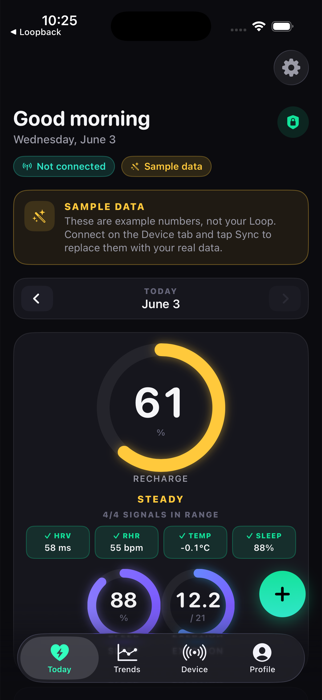
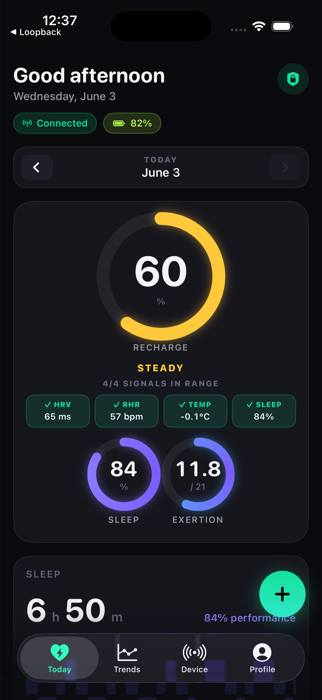
Today: reclaim top dead space and simplify the connection chip
Hide the empty navigation bar on Today (its only control was a Settings
gear; Settings already lives under Profile) so the custom header sits at
the top. Shorten the connection status to just Connected/Reconnecting/Not
connected (the full device name stays on the Device tab) and pick the
battery glyph to match the level.

diff --git a/Loopback/LoopbackApp.swift b/Loopback/LoopbackApp.swift
@@ -2816,7 +2816,6 @@ struct TodayView: View {
     @EnvironmentObject private var model: AppModel
     @State private var dayIndex = 0
     @State private var dayHR: [HeartRateSample] = []
-    @State private var showingSettings = false
     @State private var showingLog = false
     @State private var logNoteMode = false
     // Observed so temperature tiles/markers re-render when the unit preference changes.
@@ -2883,18 +2882,10 @@ struct TodayView: View {
                     showingLog = true
                 }
             }
-            .navigationTitle("")
-            .navigationBarTitleDisplayMode(.inline)
-            .toolbarBackground(Theme.bg, for: .navigationBar)
-            .toolbarColorScheme(.dark, for: .navigationBar)
-            .toolbar {
-                ToolbarItem(placement: .topBarTrailing) {
-                    Button { showingSettings = true } label: {
-                        Image(systemName: "gearshape.fill").foregroundStyle(Theme.textSecondary)
-                    }
-                }
-            }
-            .sheet(isPresented: $showingSettings) { SettingsView() }
+            // No nav bar on Today — the custom "Good morning" header is the title, so hiding the
+            // empty bar reclaims the dead space the lone gear used to create. Settings lives under
+            // the Profile tab.
+            .toolbar(.hidden, for: .navigationBar)
             .sheet(isPresented: $showingLog) { LogSheet(noteMode: logNoteMode) }
         }
         .onAppear(perform: refreshDayHR)
@@ -2954,14 +2945,34 @@ struct TodayHeader: View {
                     .background(Theme.recoveryGreen.opacity(0.12), in: Circle())
             }
             HStack(spacing: 8) {
-                StatusPill(text: model.connectionState, systemImage: "antenna.radiowaves.left.and.right", tint: model.connectionState.contains("Connected") ? Theme.recoveryGreen : Theme.hrv)
+                StatusPill(text: statusShort, systemImage: "antenna.radiowaves.left.and.right", tint: connected ? Theme.recoveryGreen : Theme.hrv)
                 if model.showingSampleData {
                     StatusPill(text: "Sample data", systemImage: "wand.and.stars", tint: Theme.recoveryYellow)
                 }
                 if let battery = model.batteryLevel {
-                    StatusPill(text: "\(battery)%", systemImage: "battery.75percent", tint: Theme.activity)
+                    StatusPill(text: "\(battery)%", systemImage: batteryGlyph(battery), tint: Theme.activity)
                 }
             }
+        }
+    }
+
+    private var connected: Bool { model.connectionState.contains("Connected") }
+
+    /// Short, fixed-width-friendly status — the full device name lives on the Device tab.
+    private var statusShort: String {
+        let s = model.connectionState
+        if s.contains("Connected") { return "Connected" }
+        if s.contains("Reconnecting") { return "Reconnecting" }
+        if s.contains("Connecting") { return "Connecting" }
+        return "Not connected"
+    }
+
+    private func batteryGlyph(_ level: Int) -> String {
+        switch level {
+        case ..<13: return "battery.25percent"
+        case ..<38: return "battery.50percent"
+        case ..<63: return "battery.75percent"
+        default: return "battery.100percent"
         }
     }
 